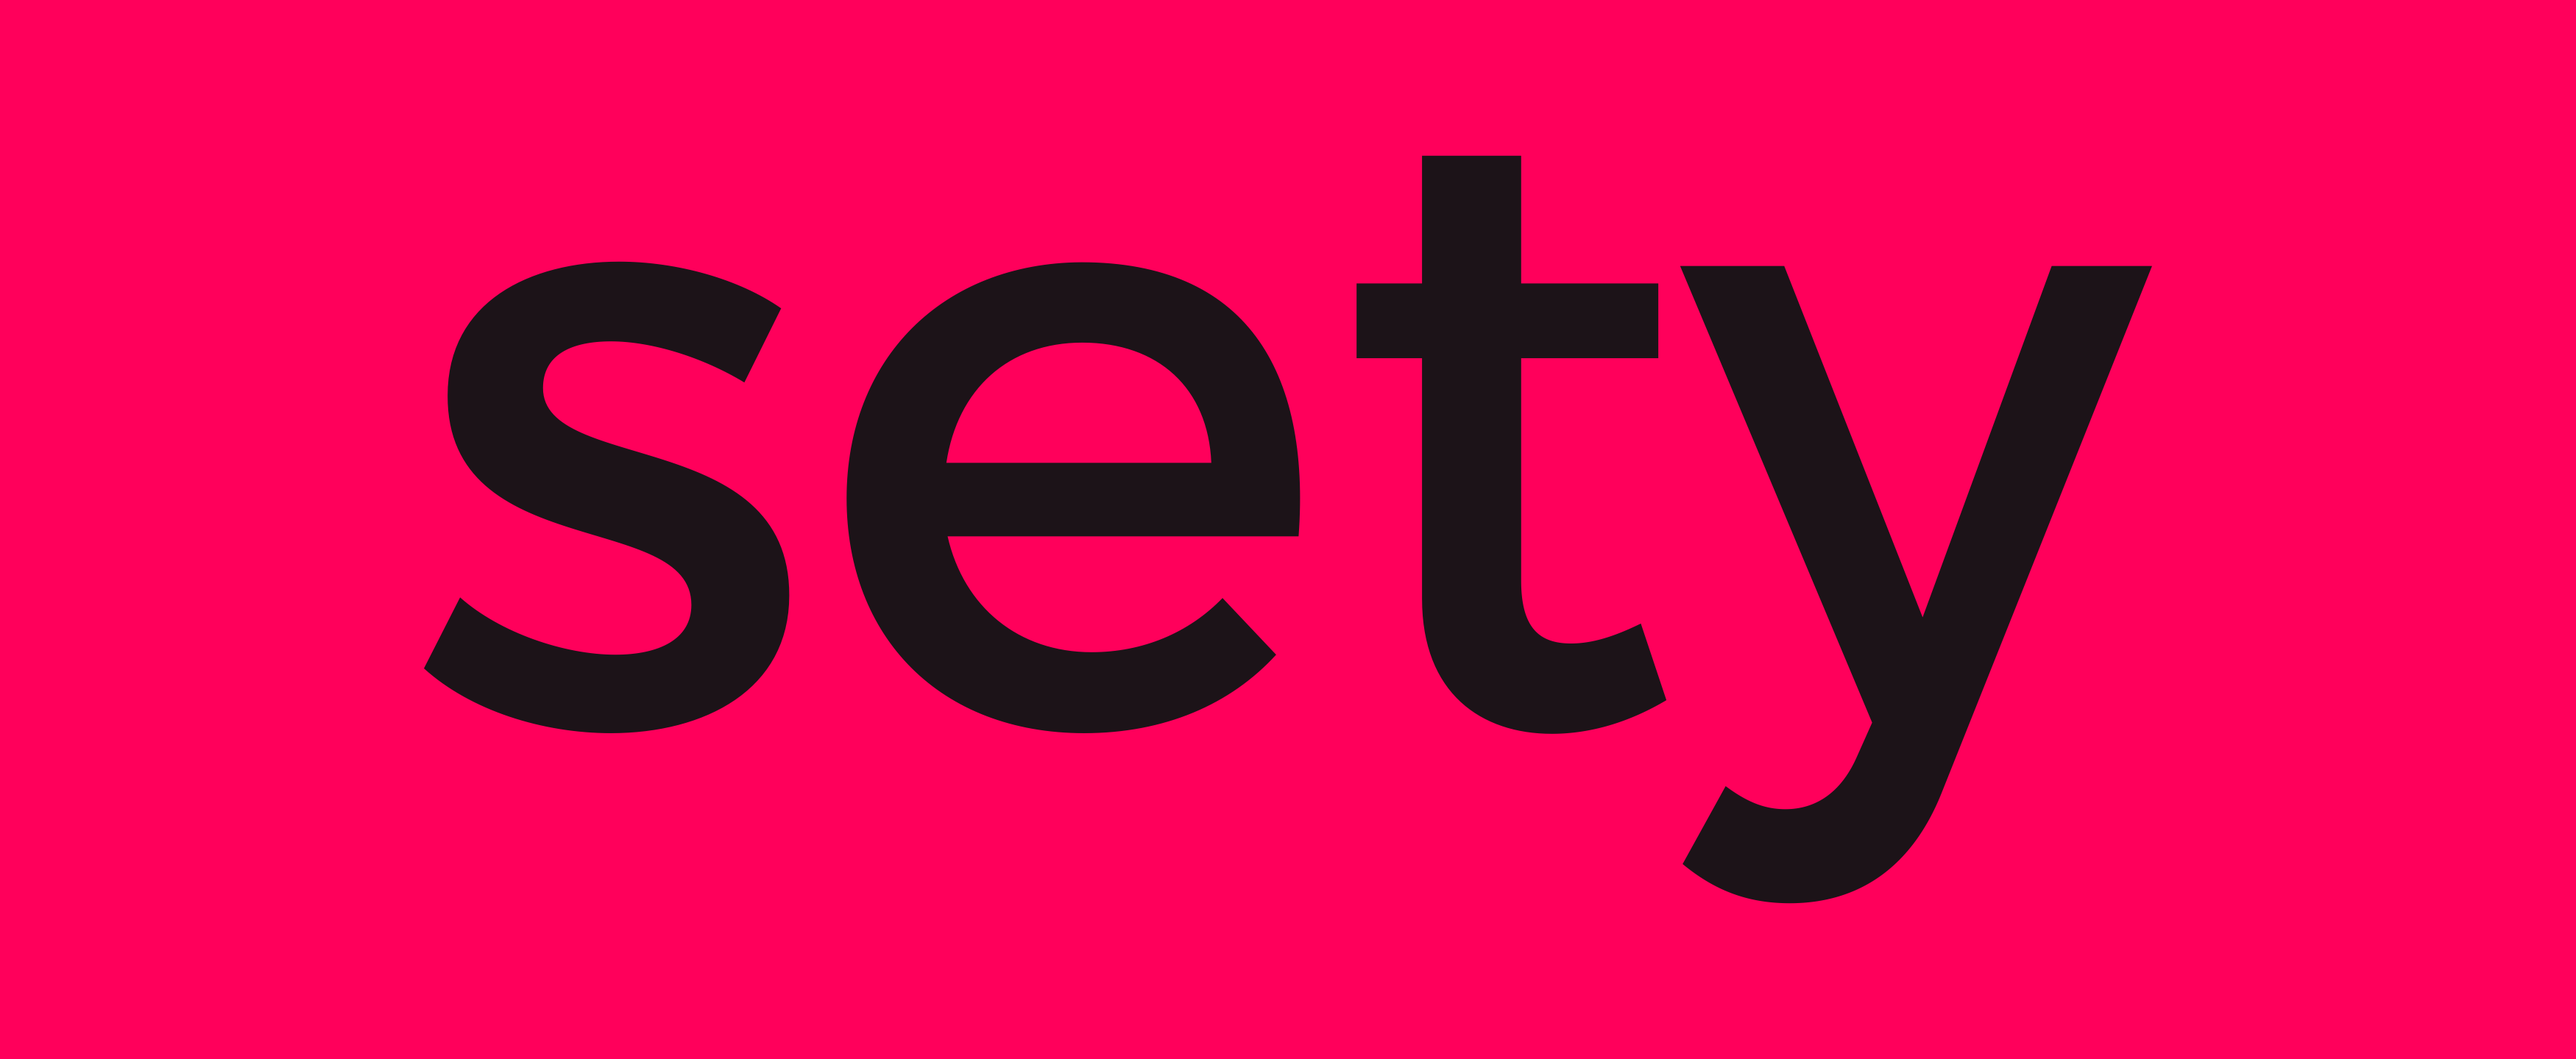
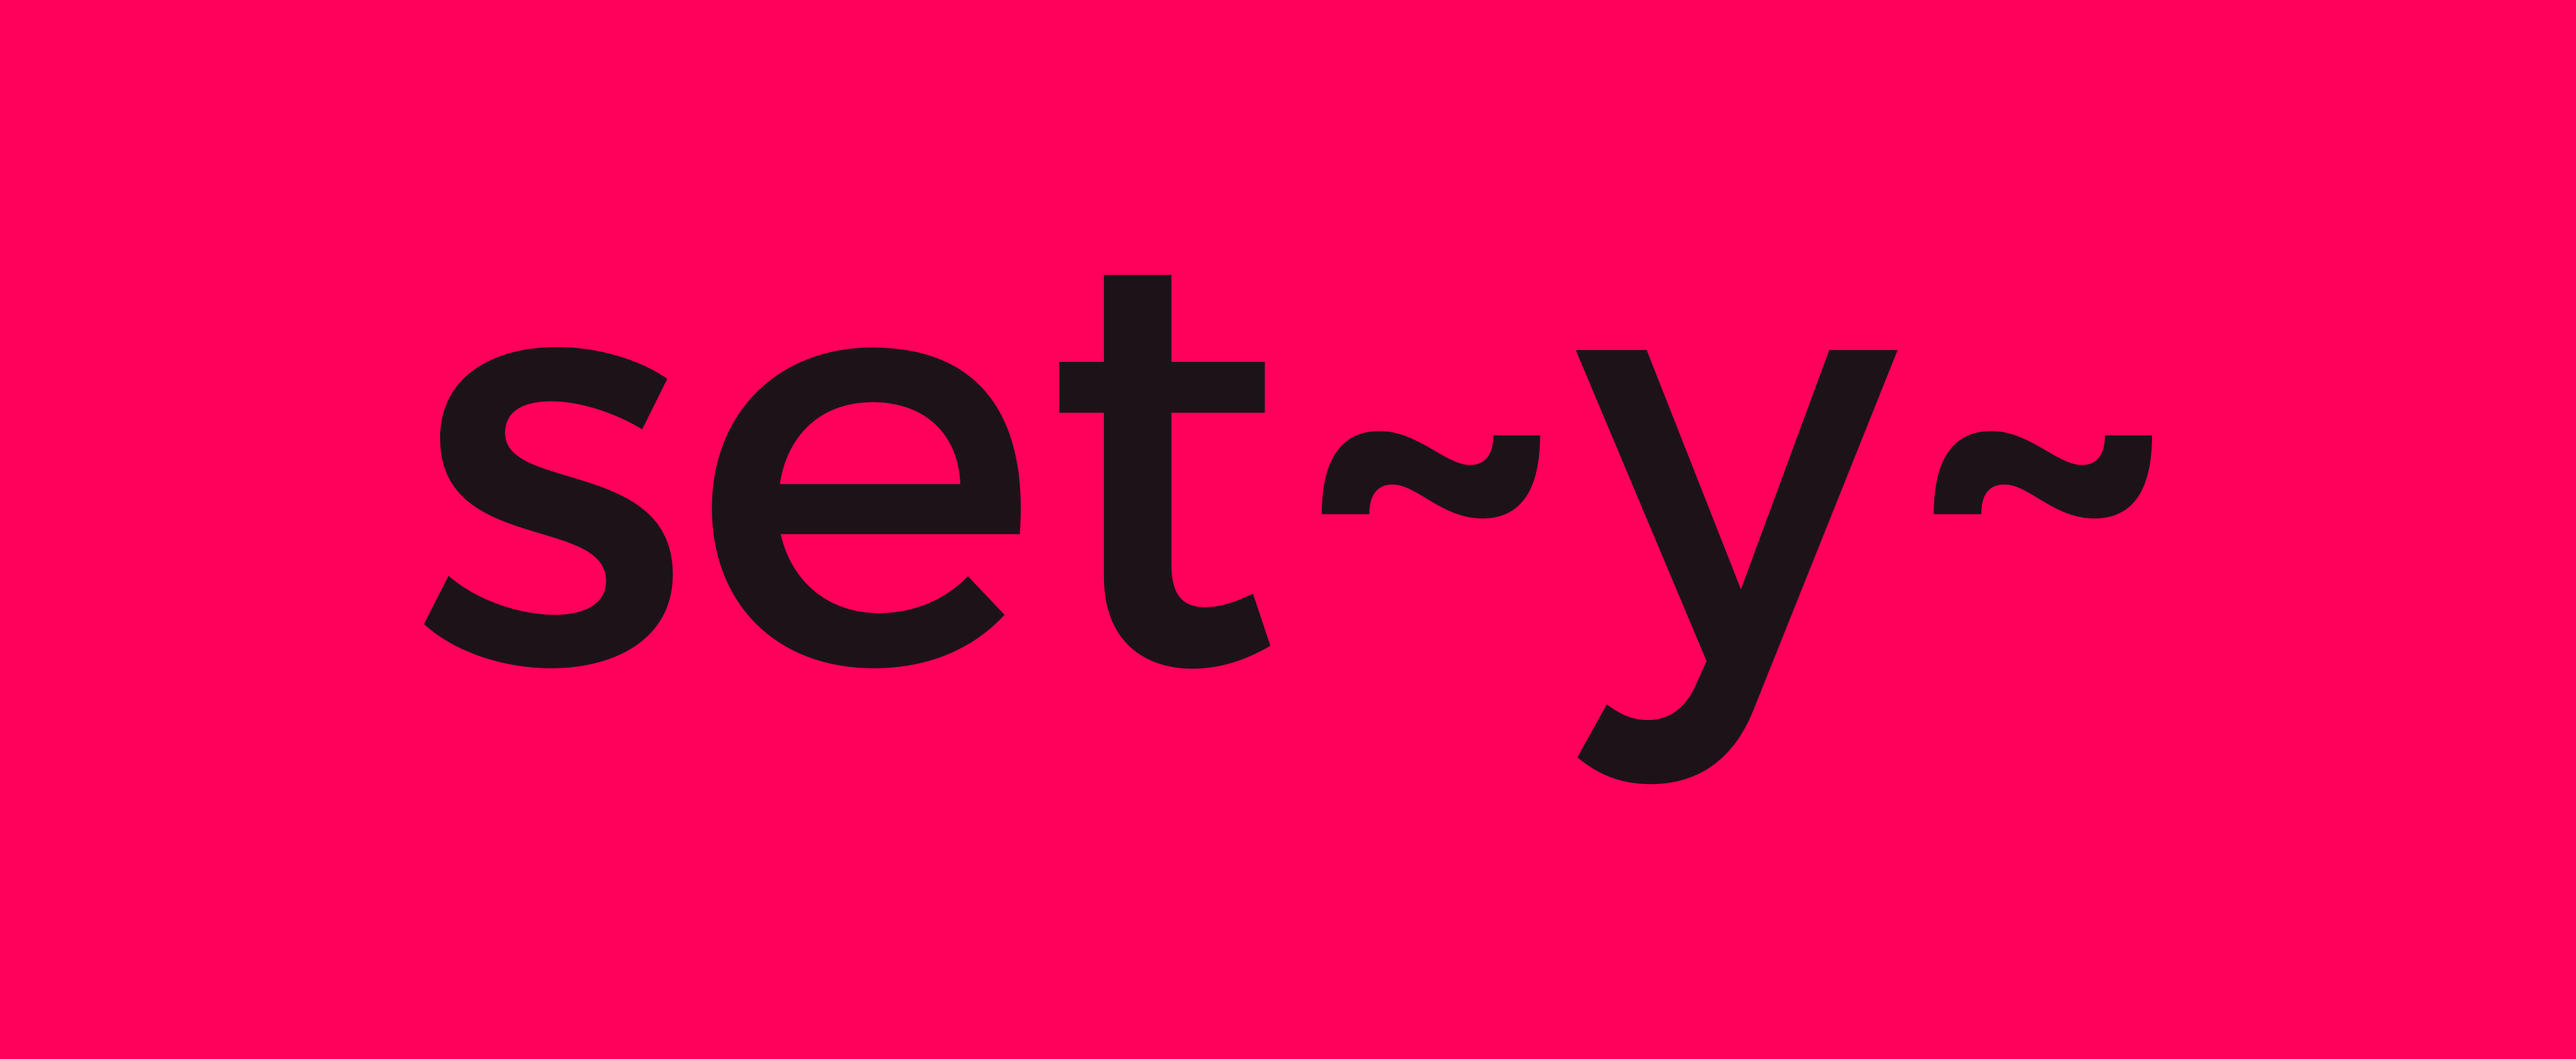
Updated cover image

Changed region(s): [[0.1557, 0.125, 0.8409, 0.875]]

diff --git a/README.md b/README.md
@@ -1,6 +1,6 @@
 # ![datagen logo](assets/cover.png)
 
-`sety` allows you to set blobs of arbitrary YAML with other blobs of arbitrary YAML.
+`sety` (pronounced SET-WHY) allows you to set blobs of arbitrary YAML with other blobs of arbitrary YAML.
 
 Sety will walk a YAML file from top to bottom, replacing any blobs of YAML that appear in the file (at any level).
 
